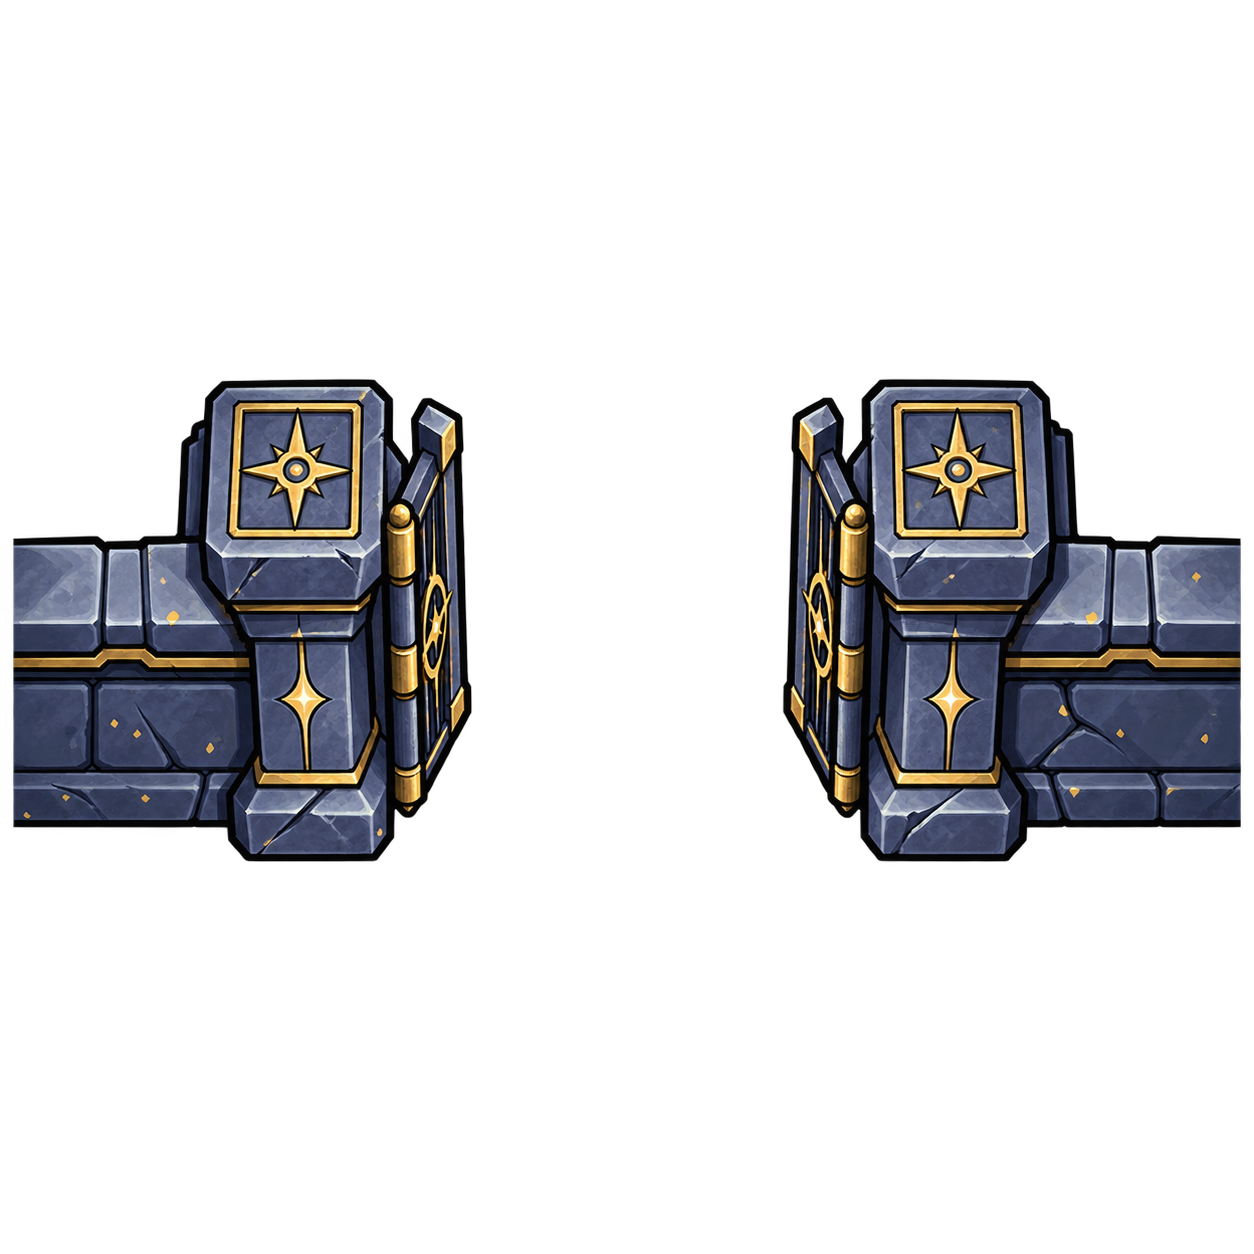
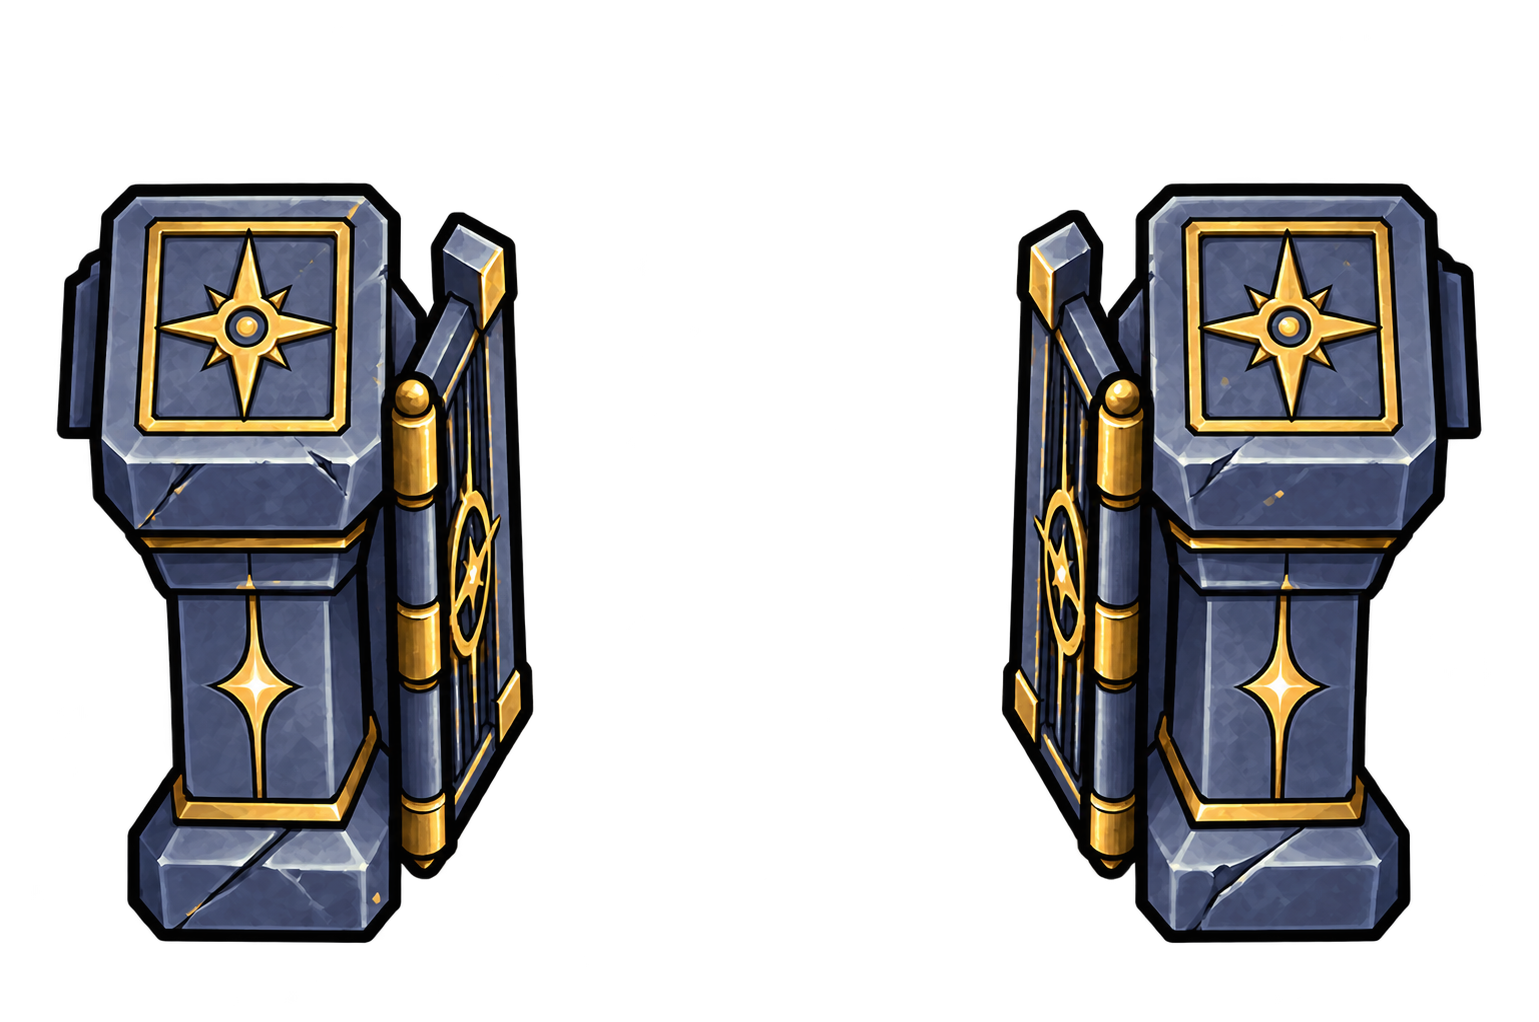
gg

diff --git a/base/base.html b/base/base.html
@@ -972,7 +972,7 @@
     ====================================================== -->
 
     <script src="js/base.js?v=9"></script>
-    <script src="js/eventi_base.js?v=3"></script>
+    <script src="js/eventi_base.js?v=4"></script>
 
 </body>
 

diff --git a/base/js/eventi_base.js b/base/js/eventi_base.js
@@ -104,7 +104,7 @@ let baseGateElement =
     null;
 
 const BASE_GATE_OPEN_IMAGE =
-    "immagini/gateo.png";
+    "immagini/gateo.png?v=2";
 
 const BASE_GATE_CLOSED_IMAGE =
     "immagini/gatec.png";
